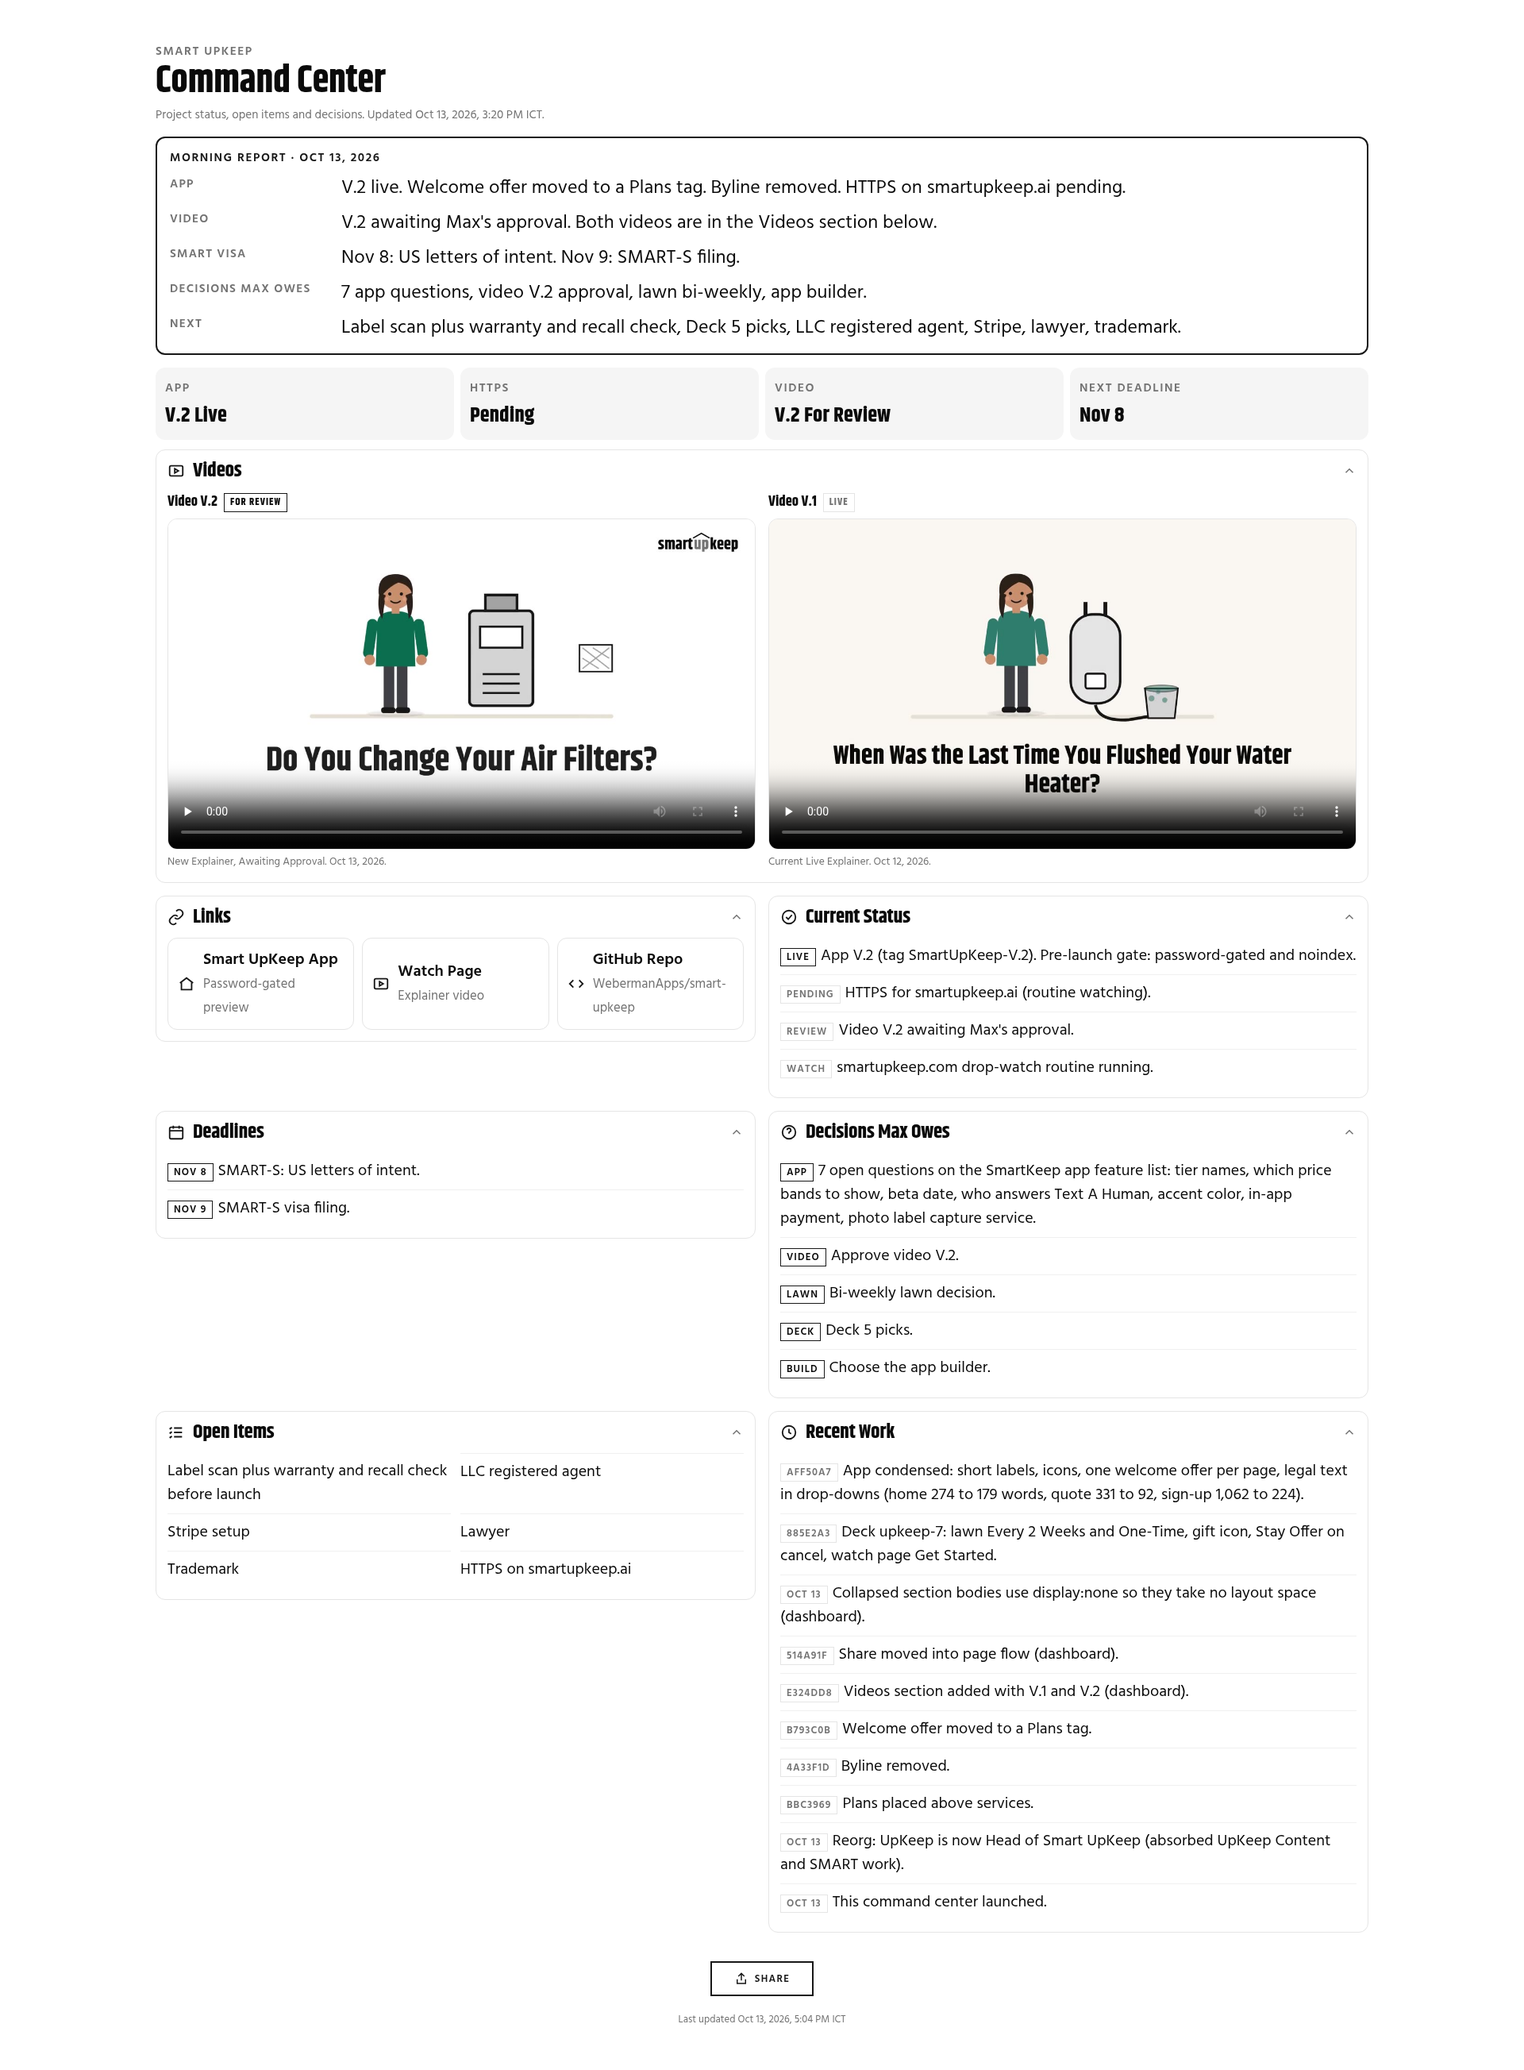
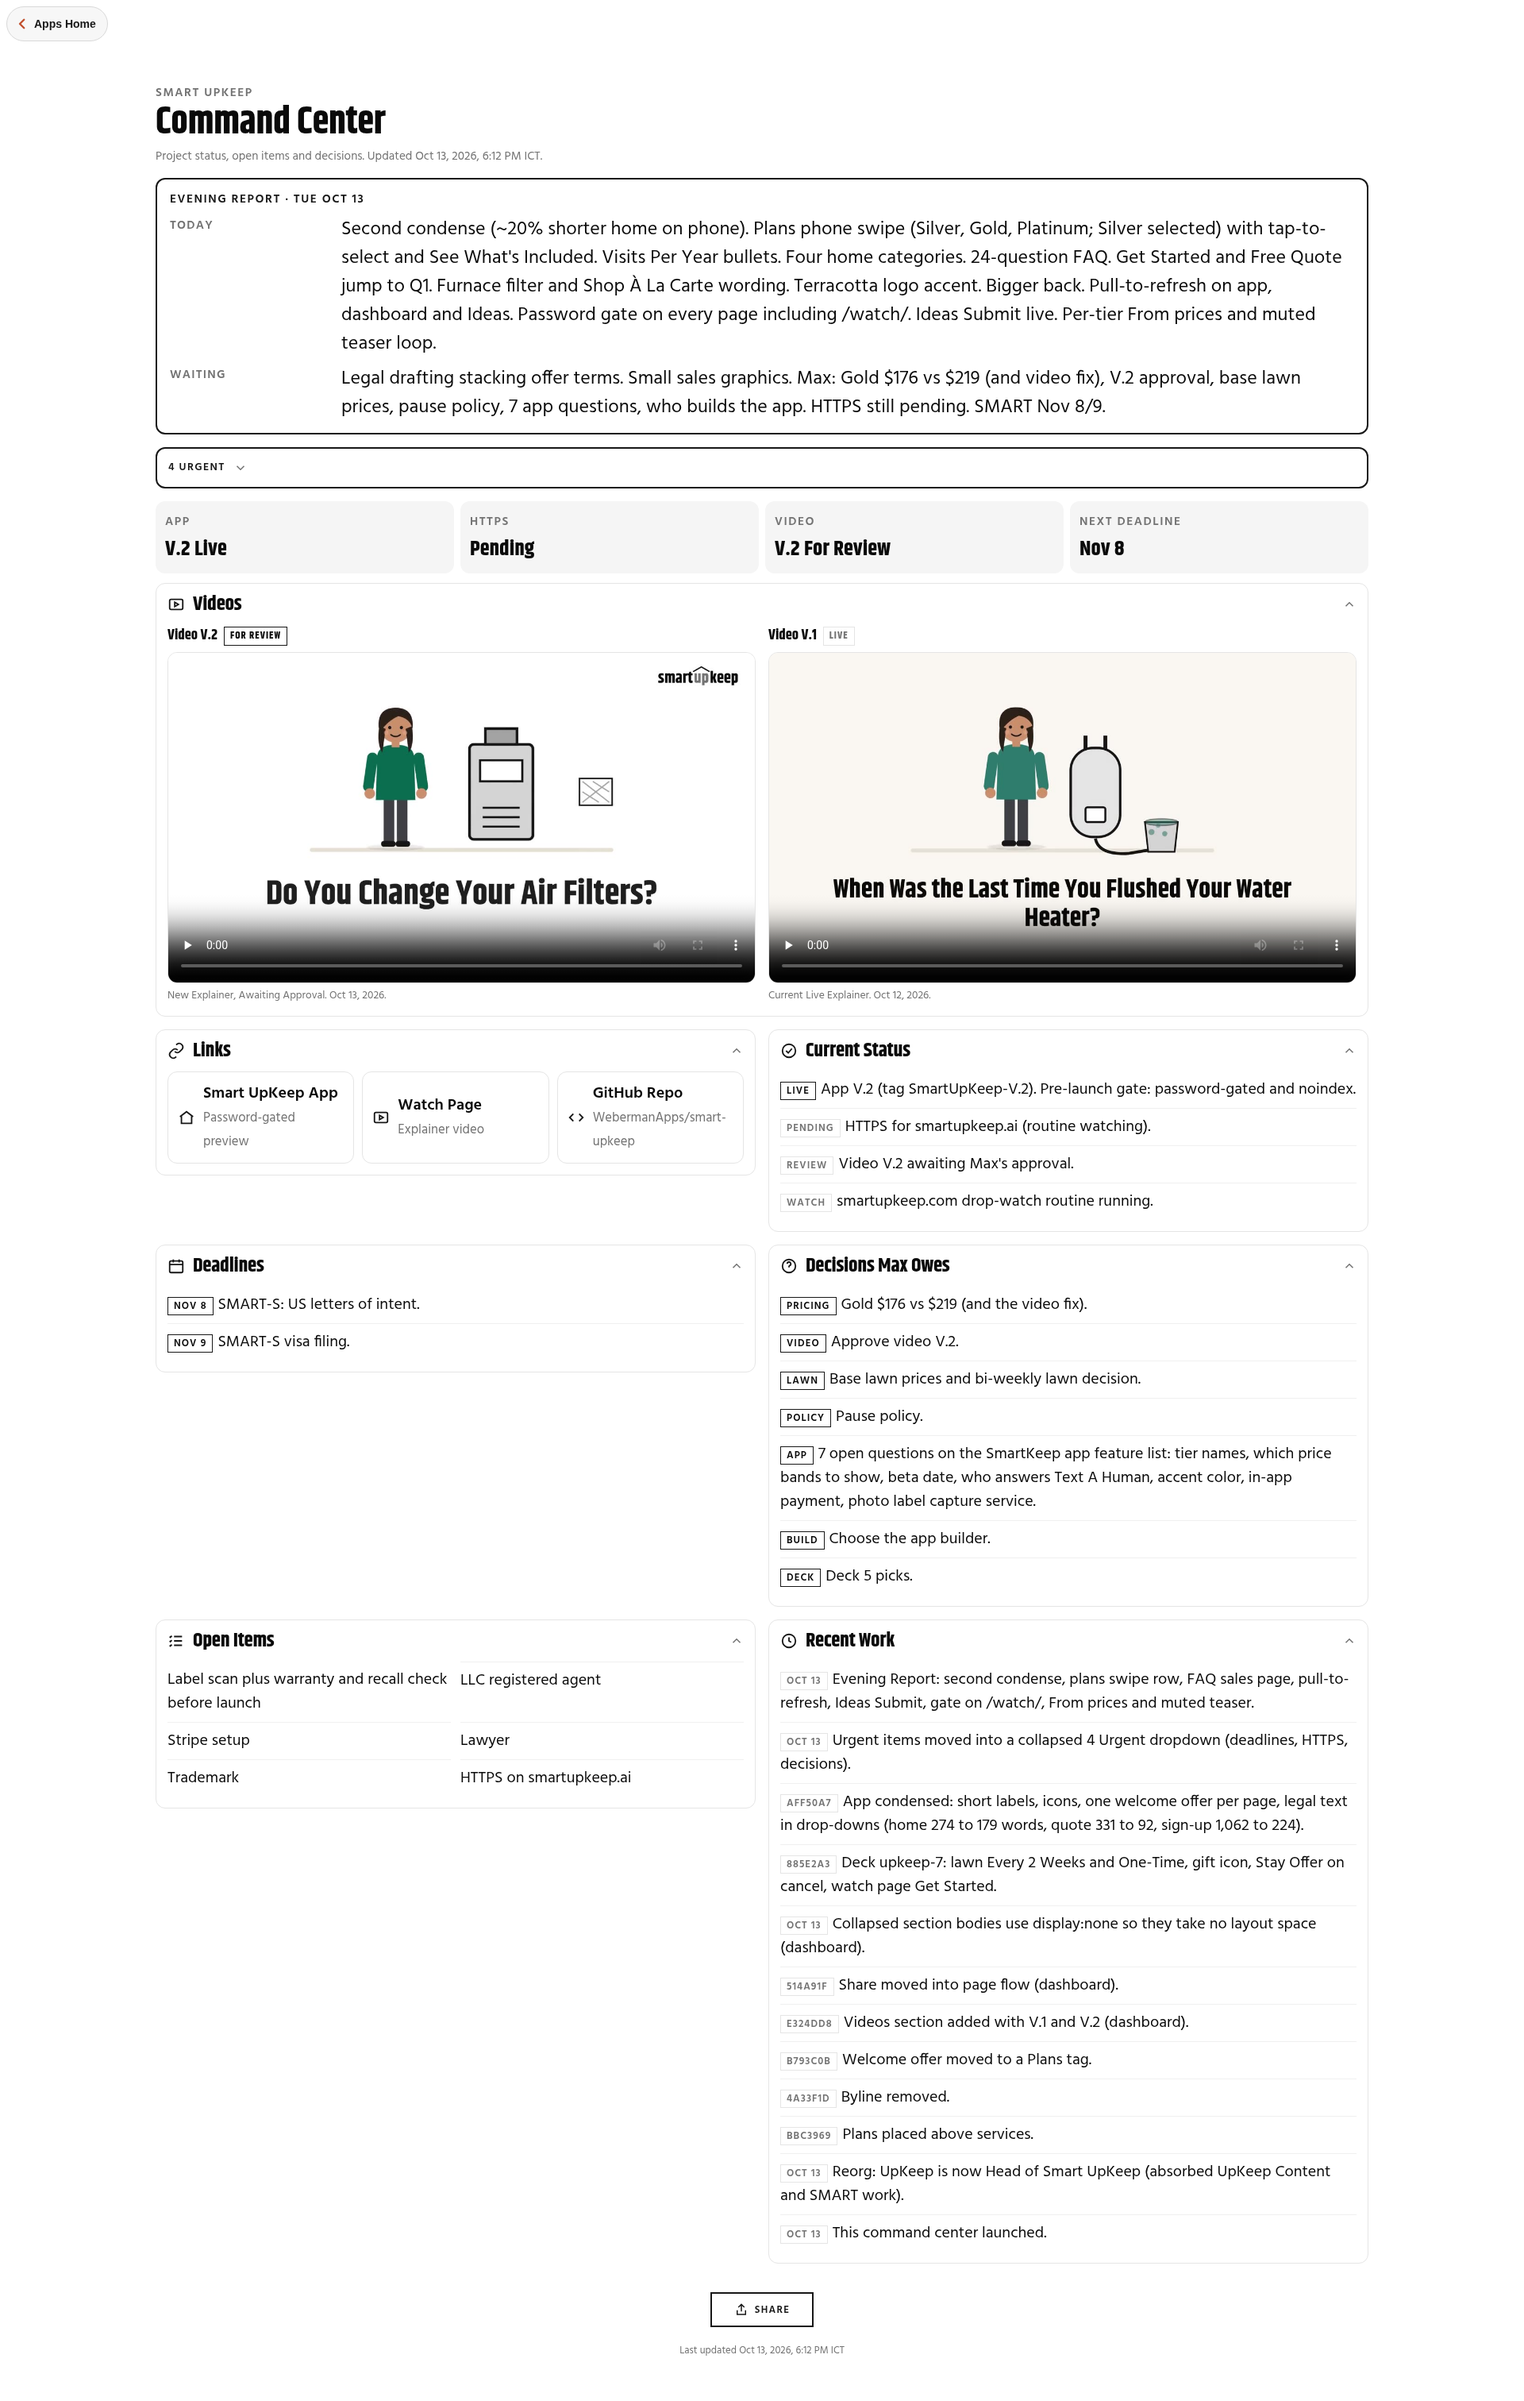
Update

diff --git a/index.html b/index.html
@@ -51,17 +51,16 @@ li{overflow-wrap:anywhere}
 @media(min-width:2400px){main{max-width:2200px}body{font-size:24px}h1{font-size:3.6rem}}
 :focus-visible{outline:3px solid #171717;outline-offset:3px}
 </style></head><body><a class="apps-home" href="https://webermanapps.github.io/a-2sipntzsp385oxy3/" style="display:inline-flex;align-items:center;gap:6px;min-height:44px;min-width:44px;padding:0 14px 0 10px;margin:8px 0 0 8px;border:1px solid #d9d9d9;border-radius:999px;background:#f7f7f7;color:#171717;text-decoration:none;font:700 14px/1 sans-serif;white-space:nowrap;flex:none"><svg width="18" height="18" viewBox="0 0 24 24" fill="none" stroke="#C1502E" stroke-width="3.2" stroke-linecap="round" stroke-linejoin="round" aria-hidden="true"><path d="M15 5l-7 7 7 7"/></svg>Apps Home</a><main>
-<div class="lbl">Smart UpKeep</div><h1>Command Center</h1><p class="sub">Project status, open items and decisions. Updated <span id="u">Oct 13, 2026, 5:16 PM ICT</span>.</p>
-<section class="rpt" aria-label="Morning Report"><div class="lbl">Morning Report · Oct 13, 2026</div><dl>
-<dt>App</dt><dd>V.2 live. Welcome offer on Plans tag. Byline removed.</dd>
-<dt>Video</dt><dd>V.2 awaiting Max's approval. Both videos are in Videos below.</dd>
-<dt>Next</dt><dd>Label scan, Deck 5 picks, LLC registered agent, Stripe, lawyer, trademark.</dd>
+<div class="lbl">Smart UpKeep</div><h1>Command Center</h1><p class="sub">Project status, open items and decisions. Updated <span id="u">Oct 13, 2026, 6:10 PM ICT</span>.</p>
+<section class="rpt" aria-label="Evening Report"><div class="lbl">Evening Report · Tue Oct 13</div><dl>
+<dt>Today</dt><dd>Second condense (~20% shorter home on phone). Plans phone swipe (Silver, Gold, Platinum; Silver selected) with tap-to-select and See What's Included. Visits Per Year bullets. Four home categories. 24-question FAQ. Get Started and Free Quote jump to Q1. Furnace filter and Shop À La Carte wording. Terracotta logo accent. Bigger back. Pull-to-refresh on app, dashboard and Ideas. Password gate on every page including /watch/. Ideas Submit live. Per-tier From prices and muted teaser loop.</dd>
+<dt>Waiting</dt><dd>Legal drafting stacking offer terms. Small sales graphics. Max: Gold $176 vs $219 (and video fix), V.2 approval, base lawn prices, pause policy, 7 app questions, who builds the app. HTTPS still pending. SMART Nov 8/9.</dd>
 </dl></section>
 <details class="urg"><summary><span class="lbl">4 Urgent</span><svg class="chev" width="18" height="18" viewBox="0 0 24 24" fill="none" stroke="#737373" stroke-width="2"><path d="m6 9 6 6 6-6"/></svg></summary><div class="body"><ul>
 <li><span class="tag">Nov 8</span>SMART-S: US letters of intent.</li>
 <li><span class="tag">Nov 9</span>SMART-S visa filing.</li>
 <li><span class="tag m">Pending</span>HTTPS for smartupkeep.ai.</li>
-<li><span class="tag">Decisions</span>7 app questions, video V.2 approval, lawn bi-weekly, Deck 5 picks, app builder.</li>
+<li><span class="tag">Decisions</span>Gold price, V.2 approval, lawn prices, pause policy, 7 app questions, app builder, Deck 5 picks.</li>
 </ul></div></details>
 <div class="kpi"><div class="k"><span class="lbl">App</span><b>V.2 Live</b></div><div class="k"><span class="lbl">HTTPS</span><b>Pending</b></div><div class="k"><span class="lbl">Video</span><b>V.2 For Review</b></div><div class="k"><span class="lbl">Next Deadline</span><b>Nov 8</b></div></div>
 
@@ -93,16 +92,19 @@ li{overflow-wrap:anywhere}
 <li><span class="tag">Nov 9</span>SMART-S visa filing.</li></ul></div></details>
 
 <details><summary><svg width="22" height="22" viewBox="0 0 24 24" fill="none" stroke="#171717" stroke-width="2"><circle cx="12" cy="12" r="9"/><path d="M9.5 9a2.5 2.5 0 1 1 3.5 2.3c-.6.3-1 .9-1 1.6V14M12 17.5v.01"/></svg><h2>Decisions Max Owes</h2><svg class="chev" width="18" height="18" viewBox="0 0 24 24" fill="none" stroke="#737373" stroke-width="2"><path d="m6 9 6 6 6-6"/></svg></summary><div class="body"><ul>
-<li><span class="tag">App</span>7 open questions on the SmartKeep app feature list: tier names, which price bands to show, beta date, who answers Text A Human, accent color, in-app payment, photo label capture service.</li>
+<li><span class="tag">Pricing</span>Gold $176 vs $219 (and the video fix).</li>
 <li><span class="tag">Video</span>Approve video V.2.</li>
-<li><span class="tag">Lawn</span>Bi-weekly lawn decision.</li>
-<li><span class="tag">Deck</span>Deck 5 picks.</li>
-<li><span class="tag">Build</span>Choose the app builder.</li></ul></div></details>
+<li><span class="tag">Lawn</span>Base lawn prices and bi-weekly lawn decision.</li>
+<li><span class="tag">Policy</span>Pause policy.</li>
+<li><span class="tag">App</span>7 open questions on the SmartKeep app feature list: tier names, which price bands to show, beta date, who answers Text A Human, accent color, in-app payment, photo label capture service.</li>
+<li><span class="tag">Build</span>Choose the app builder.</li>
+<li><span class="tag">Deck</span>Deck 5 picks.</li></ul></div></details>
 
 <details><summary><svg width="22" height="22" viewBox="0 0 24 24" fill="none" stroke="#171717" stroke-width="2"><path d="M9 6h11M9 12h11M9 18h11"/><path d="m3 6 1 1 2-2M3 12l1 1 2-2M3 18l1 1 2-2"/></svg><h2>Open Items</h2><svg class="chev" width="18" height="18" viewBox="0 0 24 24" fill="none" stroke="#737373" stroke-width="2"><path d="m6 9 6 6 6-6"/></svg></summary><div class="body"><ul class="grid2">
 <li>Label scan plus warranty and recall check before launch</li><li>LLC registered agent</li><li>Stripe setup</li><li>Lawyer</li><li>Trademark</li><li>HTTPS on smartupkeep.ai</li></ul></div></details>
 
 <details><summary><svg width="22" height="22" viewBox="0 0 24 24" fill="none" stroke="#171717" stroke-width="2"><circle cx="12" cy="12" r="9"/><path d="M12 7v5l3 2"/></svg><h2>Recent Work</h2><svg class="chev" width="18" height="18" viewBox="0 0 24 24" fill="none" stroke="#737373" stroke-width="2"><path d="m6 9 6 6 6-6"/></svg></summary><div class="body"><ul>
+<li><span class="tag m">Oct 13</span>Evening Report: second condense, plans swipe row, FAQ sales page, pull-to-refresh, Ideas Submit, gate on /watch/, From prices and muted teaser.</li>
 <li><span class="tag m">Oct 13</span>Urgent items moved into a collapsed 4 Urgent dropdown (deadlines, HTTPS, decisions).</li>
 <li><span class="tag m">aff50a7</span>App condensed: short labels, icons, one welcome offer per page, legal text in drop-downs (home 274 to 179 words, quote 331 to 92, sign-up 1,062 to 224).</li>
 <li><span class="tag m">885e2a3</span>Deck upkeep-7: lawn Every 2 Weeks and One-Time, gift icon, Stay Offer on cancel, watch page Get Started.</li>
@@ -116,7 +118,7 @@ li{overflow-wrap:anywhere}
 <li><span class="tag m">Oct 13</span>This command center launched.</li></ul></div></details>
 </div>
 <div class="bar"><button class="btn mw-hover" id="s"><svg width="18" height="18" viewBox="0 0 24 24" fill="none" stroke="#171717" stroke-width="2"><path d="M12 3v12M7 8l5-5 5 5"/><path d="M5 13v7h14v-7"/></svg><span id="st">Share</span></button></div>
-<footer class="upd">Last updated Oct 13, 2026, 5:16 PM ICT</footer>
+<footer class="upd">Last updated Oct 13, 2026, 6:10 PM ICT</footer>
 </main>
 <script>
 if(matchMedia('(min-width:1200px)').matches)document.querySelectorAll('.secs details').forEach(d=>d.open=true);
